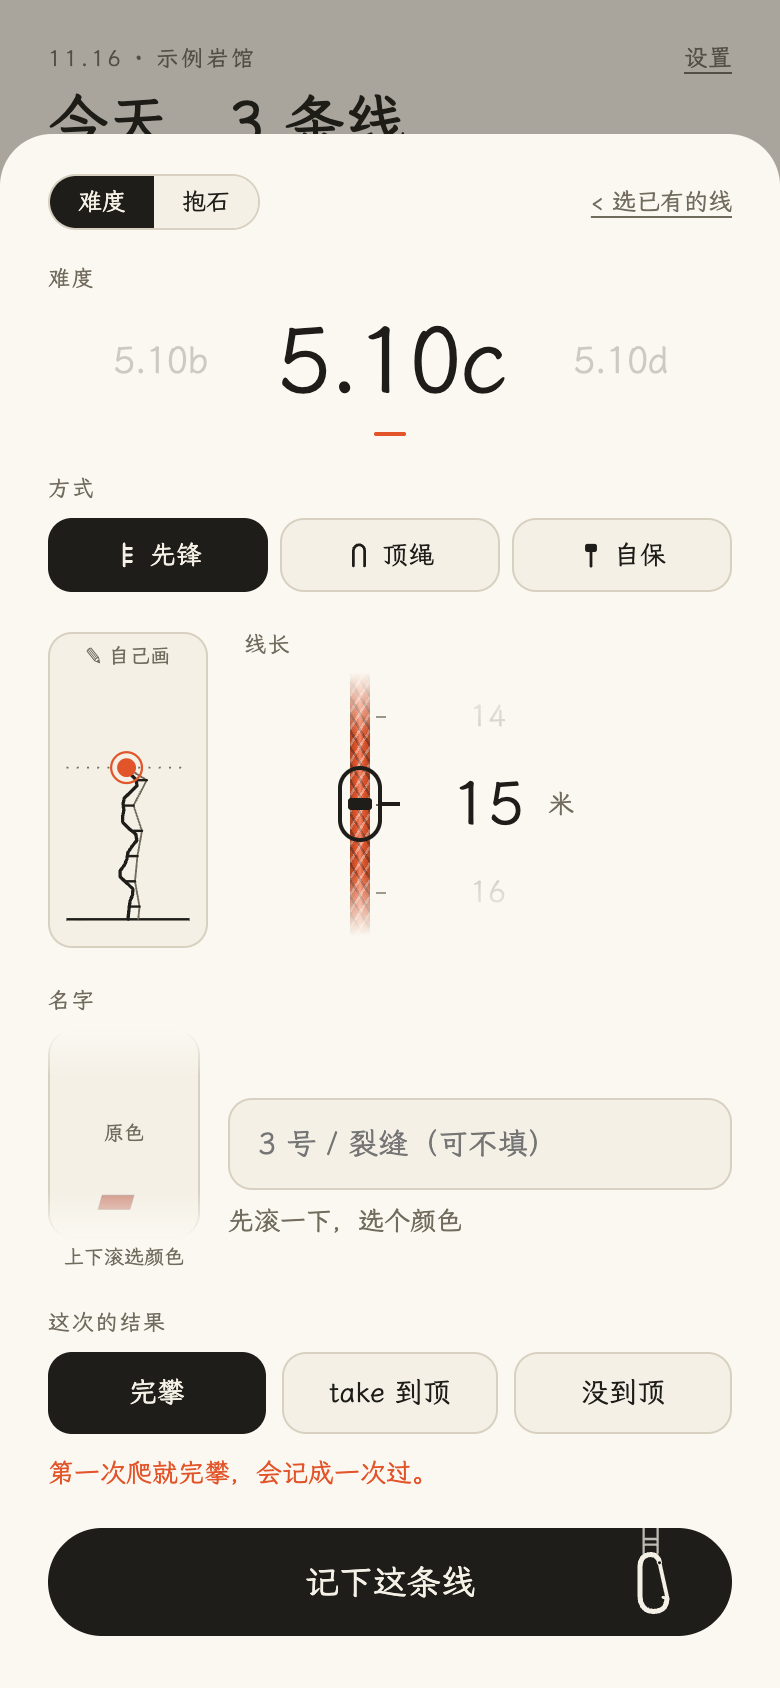
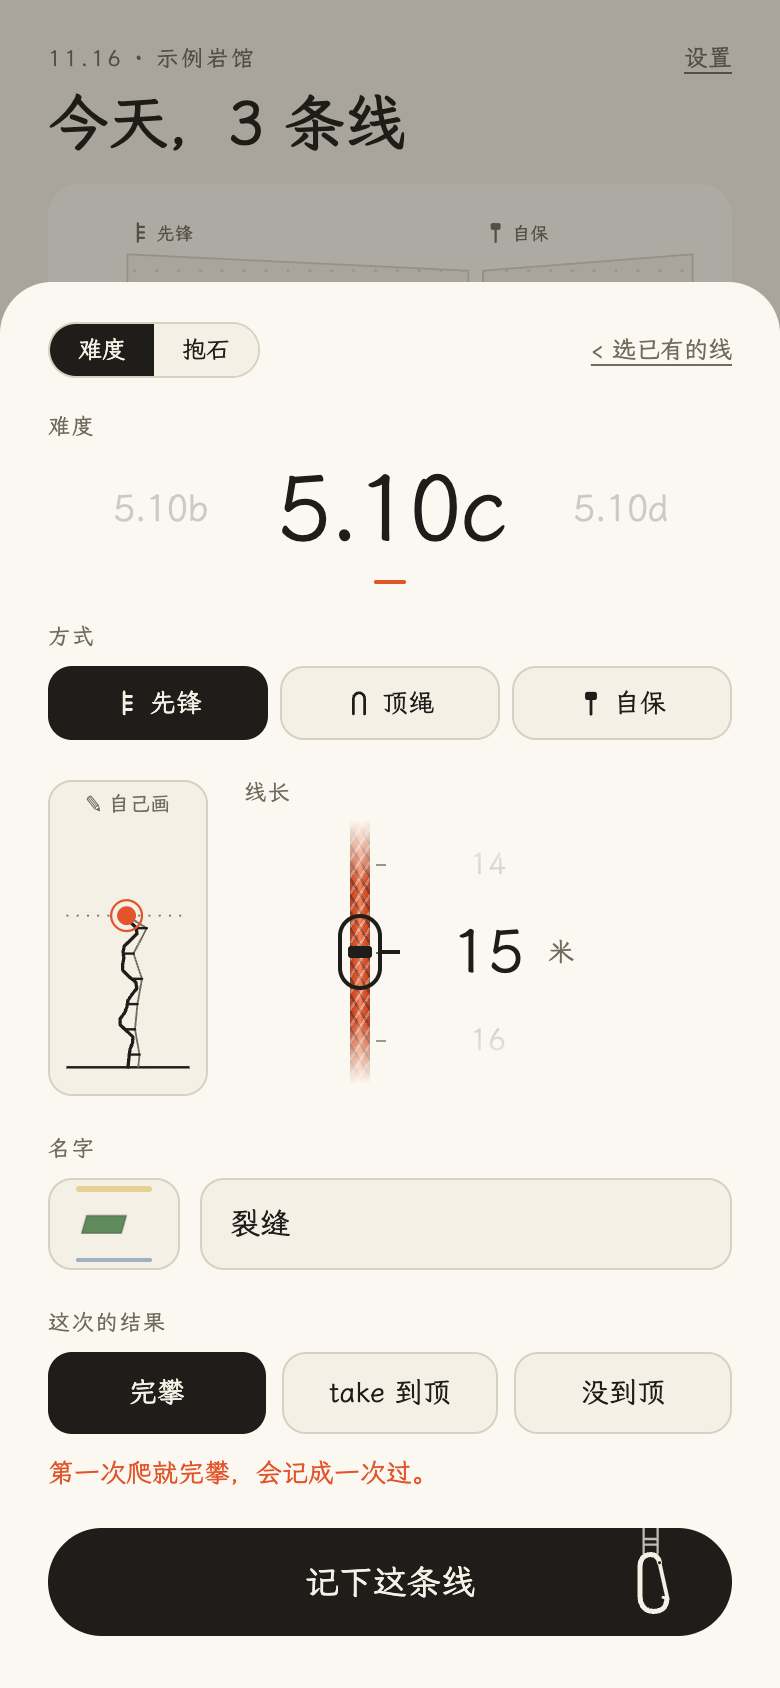
新建线名字交互精简：颜色格一次只露一个颜色，与名字框同高对齐
- 颜色格 66x46，与名字输入框同高、垂直居中对齐；一次只显示当前颜色，上下边缘各一条淡淡的邻色条提示可滚
- 去掉颜色格下方与输入框下方的重复颜色文字，颜色只出现在颜色格，名字只出现在输入框
- 未选颜色保存：颜色格描红 + 下方一行提示，原地反馈
- 文档 5.6 / 9.5 / 代码地图更新到 v0.3.6；重拍名字行截图

diff --git a/shengji-prototype.html b/shengji-prototype.html
@@ -161,19 +161,22 @@ button.stamp{background:none;border:none;padding:0;font:inherit;cursor:pointer}
 .bookact{flex:none;border:1px solid var(--hair);background:none;border-radius:14px;padding:5px 11px;font:inherit;font-size:12px;color:var(--muted);cursor:pointer}
 .bookact:active{opacity:.6}
 /* 新建线：名字左边是颜色滚轮，右边是名字 */
-.namerow{display:flex;gap:14px;align-items:center;margin-top:8px}
-.colwheel{flex:none;width:76px;display:flex;flex-direction:column;align-items:center;gap:4px}
-.cwbox{position:relative;height:104px;width:100%;border:1px solid var(--hair);border-radius:12px;background:var(--paper);overflow:hidden;
-  -webkit-mask-image:linear-gradient(to bottom,transparent,#000 22%,#000 78%,transparent);mask-image:linear-gradient(to bottom,transparent,#000 22%,#000 78%,transparent)}
-.cw{height:100%;overflow-y:auto;scroll-snap-type:y mandatory;padding:35px 0;scrollbar-width:none}
+.namerow{display:flex;gap:10px;align-items:center;margin-top:8px}
+.colwheel{flex:none;width:66px;height:46px;position:relative;border:1px solid var(--hair);border-radius:12px;background:var(--paper);overflow:hidden;
+  transition:border-color .18s ease,box-shadow .18s ease}
+.peek{position:absolute;left:13px;right:13px;height:2.5px;border-radius:2px;background:transparent;pointer-events:none;z-index:2;opacity:.5}
+.pk-top{top:3px}.pk-bot{bottom:3px}
+.colwheel.need{border-color:var(--accent);box-shadow:0 0 0 2px rgba(226,85,43,.14)}
+.cw{height:100%;overflow-y:auto;scroll-snap-type:y mandatory;padding:6px 0;scrollbar-width:none;
+  -webkit-mask-image:linear-gradient(to bottom,transparent 0,#000 20%,#000 80%,transparent 100%);
+  mask-image:linear-gradient(to bottom,transparent 0,#000 20%,#000 80%,transparent 100%)}
 .cw::-webkit-scrollbar{display:none}
-.colchip{display:flex;align-items:center;justify-content:center;width:100%;height:34px;border:none;background:none;cursor:pointer;
-  scroll-snap-align:center;opacity:calc(.22 + .78*var(--k,0));transform:scale(calc(.66 + .34*var(--k,0)))}
+.colchip{height:34px;display:flex;align-items:center;justify-content:center;width:100%;border:none;background:none;cursor:pointer;
+  scroll-snap-align:center;opacity:calc(.16 + .84*var(--k,0));transform:scale(calc(.84 + .16*var(--k,0)))}
 .colchip .tape{width:34px;height:13px;margin:0}
-.colchip.none{font-family:var(--serif);font-size:10px;color:var(--muted)}
-.cwname{font-size:10px;color:var(--muted);font-family:var(--mono)}
-.namecol{flex:1;min-width:0}
-.namecol .field{margin-top:0;height:46px}
+.colchip.none{font-family:var(--serif);font-size:11px;color:var(--muted)}
+.nf .namerow .field{margin-top:0;flex:1;height:46px}
+.cwtip{display:none;margin-top:6px;font-size:11px;color:var(--accent);font-family:var(--mono)}
 /* 拆线：全屏居中层 + 背景模糊，动画期间页面不换 */
 .stripLayer{position:absolute;inset:0;z-index:40;display:flex;align-items:center;justify-content:center;padding:26px;
   background:rgba(244,240,230,.55);-webkit-backdrop-filter:blur(7px);backdrop-filter:blur(7px);
@@ -1538,15 +1541,10 @@ function renderSheet(){
           :`<div class="lenCol"><div class="lbl">线长</div><div class="lwbox"><div class="lw" id="lw"><i class="rope" style="height:${36*44+88}px"></i>${Array.from({length:36},(_,i)=>`<button data-v="${i+5}"${(i+5)%5?'':' data-five'}><b>${i+5}</b></button>`).join('')}</div><span>米</span></div></div>`}</div>
      <div class="lbl">名字</div>
      <div class="namerow">
-       <div class="colwheel">
-         <div class="cwbox"><div class="cw" id="cw"><button class="colchip none" data-v="">原色</button>${COLORKEYS.map(k=>`<button class="colchip" data-v="${k}">${tapeSvg(k,true)}</button>`).join('')}</div></div>
-         <div class="cwname" id="cwname">${draft.color?colorWord(draft.color):'上下滚选颜色'}</div>
-       </div>
-       <div class="namecol">
-         <input class="field" id="rname" placeholder="3 号 / 裂缝（可不填）" maxlength="16" value="${esc(nameSuffix(draft.name,draft.color||colorOf(draft.name)))}">
-         <div class="sub" id="nfpv" style="margin-top:6px">${esc(draft.name||'先滚一下，选个颜色')}</div>
-       </div>
-     </div>`
+       <div class="colwheel" id="colwheel"><i class="peek pk-top" id="pkTop"></i><i class="peek pk-bot" id="pkBot"></i><div class="cw" id="cw"><button class="colchip none" data-v="">原色</button>${COLORKEYS.map(k=>`<button class="colchip" data-v="${k}">${tapeSvg(k,true)}</button>`).join('')}</div></div>
+       <input class="field" id="rname" placeholder="3 号 / 裂缝（可不填）" maxlength="16" value="${esc(nameSuffix(draft.name,draft.color||colorOf(draft.name)))}">
+     </div>
+     <div class="cwtip" id="cwTip">先上下滚一下，选个颜色</div>`
    :`<div class="pick"><div class="left"><h1 style="font-size:22px;margin-top:2px">${tape(draft,true)}${esc(draft.name)}</h1><div class="sub" style="margin-bottom:10px">${b?meta(R(draft.rid)):draft.grade+" · "+draft.wall+"m"} · 第 ${climbsOf(draft.rid).length+1} 次</div>
        ${b?'<div class="sub">抱石画成地上的一块石头。</div>':''}</div><button class="preview" id="pv">${previewSvg()}</button></div>`}
    ${isNew||b?'':`<div class="lbl">本次方式</div><div class="tog tri" style="margin-top:8px">${Object.entries(MODE).map(([k,t])=>`<button data-cm="${k}" class="${draft.mode===k?'on':''}">${ico(k,13)}${t}</button>`).join('')}</div>`}
@@ -1557,11 +1555,14 @@ function renderSheet(){
   const gw=$('gw'),lw=$('lw'),hi=$('high');
   const cw=$('cw'),rn=$('rname');
   const fullName=()=>{const suf=rn?rn.value.trim():'';return draft.color?colorWord(draft.color)+(suf?' '+suf:''):suf};
-  const syncName=()=>{draft.name=fullName();const p=$('nfpv');if(p)p.textContent=draft.name||'先滚一下，选个颜色'};
+  const syncName=()=>{draft.name=fullName()};
   if(cw){const chips=[...cw.children],H=34;
     const pick=()=>{const i=Math.max(0,Math.min(chips.length-1,Math.round(cw.scrollTop/H)));
       chips.forEach((b,j)=>b.style.setProperty('--k',Math.max(0,1-Math.abs(j-i)*0.6).toFixed(2)));
-      draft.color=chips[i].dataset.v||null;const cn=$('cwname');if(cn){cn.textContent=draft.color?colorWord(draft.color):'上下滚选颜色';cn.style.color='var(--muted)'}
+      draft.color=chips[i].dataset.v||null;
+      const colOf=b=>b?(b.dataset.v?TAPE[b.dataset.v]:'transparent'):'transparent';
+      const pt=$('pkTop'),pb=$('pkBot');if(pt)pt.style.background=colOf(chips[i-1]);if(pb)pb.style.background=colOf(chips[i+1]);
+      const tip=$('cwTip'),w=$('colwheel');if(tip)tip.style.display='none';if(w)w.classList.remove('need');
       syncName()};
     cw.scrollTop=H*Math.max(0,chips.findIndex(b=>b.dataset.v===(draft.color||'')));pick();
     cw.onscroll=()=>requestAnimationFrame(pick);
@@ -1642,7 +1643,7 @@ $('sheet').onclick=e=>{const b=e.target.closest('button');if(!b)return;const d=b
   if(b.id==='aiCopy'){copy(aiText(),b,'已复制');return}
   if(b.id==='askNo'){const a=askCfg;if(a.onNo)a.onNo();else{closeSheet();renderAll()}return}
   if(b.id==='askYes'){const a=askCfg,i=$('askIn'),err=a.onYes(i?i.value:undefined);if(typeof err==='string')$('askErr').textContent=err;return}
-  if(b.id==='save'){if(!draft.rid&&!draft.color){const cn=$('cwname');if(cn){cn.textContent='先滚一下，选个颜色';cn.style.color='var(--accent)'}return}
+  if(b.id==='save'){if(!draft.rid&&!draft.color){const tip=$('cwTip'),w=$('colwheel');if(tip)tip.style.display='block';if(w)w.classList.add('need');return}
     if(b.classList.contains('go'))return;b.classList.add('go');setTimeout(()=>{if(navigator.vibrate)navigator.vibrate(10);const dup=findDup();
     if(dup)ask({title:'这条线是不是已经在爬了',body:`这家岩馆有一条在爬的「${esc(dup.name)} · ${meta(dup)}」，${lab(dup.since)} 开始爬，已经爬了 ${climbsOf(dup.id).length} 次。<br><br>是同一条，这次就记到它上面。是新定的线，就另建一条，旧的那条标成已拆线。`,
       yes:'是同一条',no:'是新定的线',onYes:()=>finishSave(dup),onNo:()=>{dup.retired=true;finishSave()}});

diff --git a/产品文档.md b/产品文档.md
@@ -161,7 +161,7 @@
 ### 5.6 底部面板
 
 - **选线 / 记一次**：活跃线（45 天内爬过）快捷列表；已有线只选结果，并有一个"本次方式"切换（先锋 / 顶绳 / 自保，默认继承这条线上一次用的方式）；新线走"新建"。
-- **新建线**：难度滚轮、方式（先锋 / 顶绳 / 自保）、线长滚轮（5–40m）、画线走向（手指画，可拍照垫底描，照片不保存）、**名字 = 颜色滚轮 + 名字输入**（左边上下滚选胶带颜色（必选），右边填名字（可不填））、本次结果。没选颜色就点保存会在原地提示。
+- **新建线**：难度滚轮、方式（先锋 / 顶绳 / 自保）、线长滚轮（5–40m）、画线走向（手指画，可拍照垫底描，照片不保存）、**名字 = 颜色格 + 名字输入**（两个框同高对齐：左边上下滚选胶带颜色（必选，一次只显示一个颜色，上下边缘隐约露邻色提示可滚），右边填名字（可不填））、本次结果。没选颜色就点保存会在颜色格下方提示。
 - **结果**：完攀 / take 到顶（次数）/ 没到顶（高度滑块，按线长百分比）；未完攀可选原因（没力了 / 动作不会 / 不敢冲）；新线第一次就完攀自动记成"一次过"。
 - **保存**：快挂按钮，按下时绳子顶开锁门；若与已有活跃线同名同难度同方式，会问「是同一条」还是「新定的线」（新定则旧线标成已拆线）。新线的名字由颜色 + 可选后缀组成（如「红色 7 号」或「红色」），所以每条线都有胶带颜色。
 - **设置**：岩馆切换 / 添加、线路簿、存成文件备份、复制成文字备份、从文件 / 文字恢复（恢复要拧开丝扣锁）、清空示例数据。
@@ -370,8 +370,8 @@ data = {
 
 - **问题**：胶带颜色一直是从名字里解析的（「红色 7 号」），自动命名的线（「5.10c · 第 3 条」）就没有颜色胶带；名字想写什么也没有约束。
 - **实现**（v0.3.4 简化成一行）：
-  - 新建线时「名字」是一行：**左边竖排颜色滚轮**（上下滑，10 色 + 原色，选中的颜色居中放大），**右边名字输入框**（可不填）；名字 = 颜色 + 可选后缀，所以每条新线都有胶带。
-  - 没选颜色（停在「原色」）直接点保存，会在颜色滚轮下方原地提示，不跳页。
+  - 新建线时「名字」是一行，**左右两个框同高对齐**：左边颜色格（上下滚，10 色 + 原色；一次只露当前一个颜色，上下边缘各一条淡淡的邻色提示可以滚），右边名字输入框（可不填）；名字 = 颜色 + 可选后缀，所以每条新线都有胶带。颜色只在颜色格出现一次，不再在别处重复显示颜色文字。
+  - 没选颜色（停在「原色」）直接点保存，颜色格会标红、下方出现一行提示，不跳页。
   - 新建下一条线时默认沿用上一次选的颜色，减少重复操作。
   - 颜色存成 `route.color`，显示时优先用它；老数据加载时从名字里补一次颜色。
   - 改名保留颜色：新名字里写了颜色就用它，没写就沿用原颜色。
@@ -482,26 +482,27 @@ data = {
 | v0.3.3 | 2026-11-16 | 线路命名标准化：新建线「选颜色 → 填名字」两步，颜色存字段，老数据补颜色，改名保留颜色 |
 | v0.3.4 | 2026-11-16 | 拆线岩点扩展：8 种类型随机出现 + 按线路胶带色淡彩手绘上色；新建线名字改回一行（颜色滚轮 + 名字输入） |
 | v0.3.5 | 2026-11-16 | 岩点造型按真实岩点照片重画：10 种类型（含月牙、平板、三角、斜面、捏点等非圆形），不再是清一色圆点 |
+| v0.3.6 | 2026-11-16 | 新建线名字交互精简：颜色格一次只露一个颜色（上下隐约邻色提示可滚），与名字框同高对齐；去掉重复的颜色文字 |
 | v0.4 | 待开发 | 分享卡（11.9） |
 
 ---
 
-## 16. 代码地图（v0.3.4 基线，行号随改动会漂移）
+## 16. 代码地图（v0.3.6 基线，行号随改动会漂移）
 
 | 区块 | 行号 | 内容 |
 |---|---|---|
-| 常量 / 工具 | 358–377 | 难度表、模式、日期、转义 |
-| 示例数据 / 迁移 / 存储 | 378–475 | `demo()`（含山段补数）、`migrate()`、`data`、`cMode` / `MODEG`、颜色工具 |
-| 画法 | 476–559 | 线形几何、结果符号、岩壁图 `chart()` |
-| 今天页 | 560–634 | `renderToday`（按线路 + 方式聚合）、点阵 `heat`、当日卡 `dayCard` |
-| 线路详情 / 回放 | 635–703 | `routeSvg`、`renderRoute`（方式筛选）、`replay` |
-| 岩点类型库 | 704–815 | `HOLD_TYPES`（10 种 + 螺丝锚点 + 权重）、`pickHold()`、`holdPaint()`（淡彩手绘）、`stripScene()` |
-| 拆线动画 | 816–878 | 全屏居中层、时间轴（伸入 / 拧 / 磁吸 / 掉落 / 已拆线）与收尾 |
-| 山 | 879–1194 | 目标清单、线描 ART、`STOPS`、远征算法 `expedition`（含观景台记录）、山页渲染与动画 |
-| 阶 | 1195–1261 | `levels(t, g)`、`modeSum`、`crossMode`、`renderPyr` |
-| 迹 | 1263–1415 | 周期、`stats`、`insights`、`summary`、`aiText` |
-| 面板 | 1416–1703 | 选线、记录表单（含本次方式、颜色滚轮 + 名字）、描线、丝扣锁、备份恢复、岩馆、AI、登顶册、线路簿 |
-| 导航 | 1704–1714 | `renderAll`、`go`、深链 |
+| 常量 / 工具 | 357–380 | 难度表、模式、日期、转义 |
+| 示例数据 / 迁移 / 存储 | 381–478 | `demo()`（含山段补数）、`migrate()`、`data`、`cMode` / `MODEG`、颜色工具 |
+| 画法 | 479–562 | 线形几何、结果符号、岩壁图 `chart()` |
+| 今天页 | 563–637 | `renderToday`（按线路 + 方式聚合）、点阵 `heat`、当日卡 `dayCard` |
+| 线路详情 / 回放 | 638–706 | `routeSvg`、`renderRoute`（方式筛选）、`replay` |
+| 岩点类型库 | 707–818 | `HOLD_TYPES`（10 种 + 螺丝锚点 + 权重）、`pickHold()`、`holdPaint()`（淡彩手绘）、`stripScene()` |
+| 拆线动画 | 819–881 | 全屏居中层、时间轴（伸入 / 拧 / 磁吸 / 掉落 / 已拆线）与收尾 |
+| 山 | 882–1197 | 目标清单、线描 ART、`STOPS`、远征算法 `expedition`（含观景台记录）、山页渲染与动画 |
+| 阶 | 1198–1264 | `levels(t, g)`、`modeSum`、`crossMode`、`renderPyr` |
+| 迹 | 1266–1418 | 周期、`stats`、`insights`、`summary`、`aiText` |
+| 面板 | 1419–1704 | 选线、记录表单（含本次方式、颜色格 + 名字）、描线、丝扣锁、备份恢复、岩馆、AI、登顶册、线路簿 |
+| 导航 | 1705–1715 | `renderAll`、`go`、深链 |
 
 ---
 
